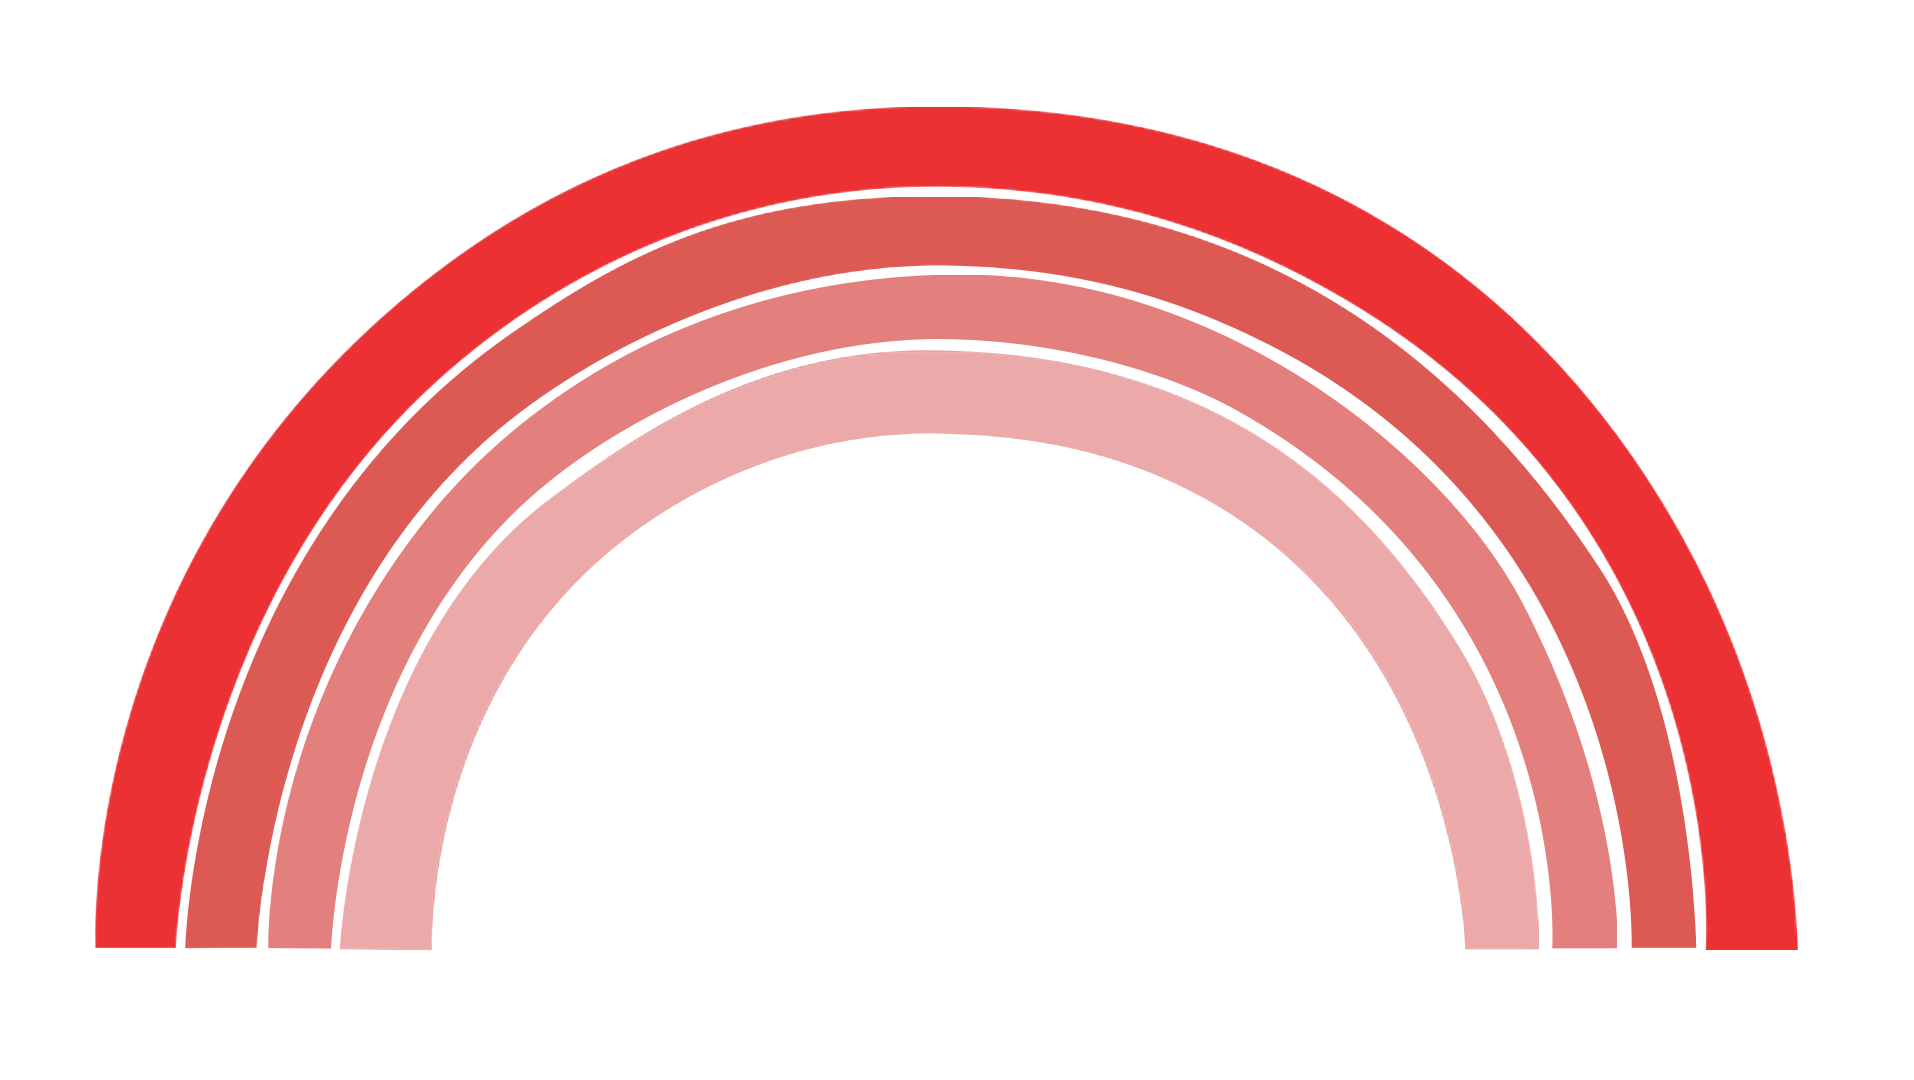
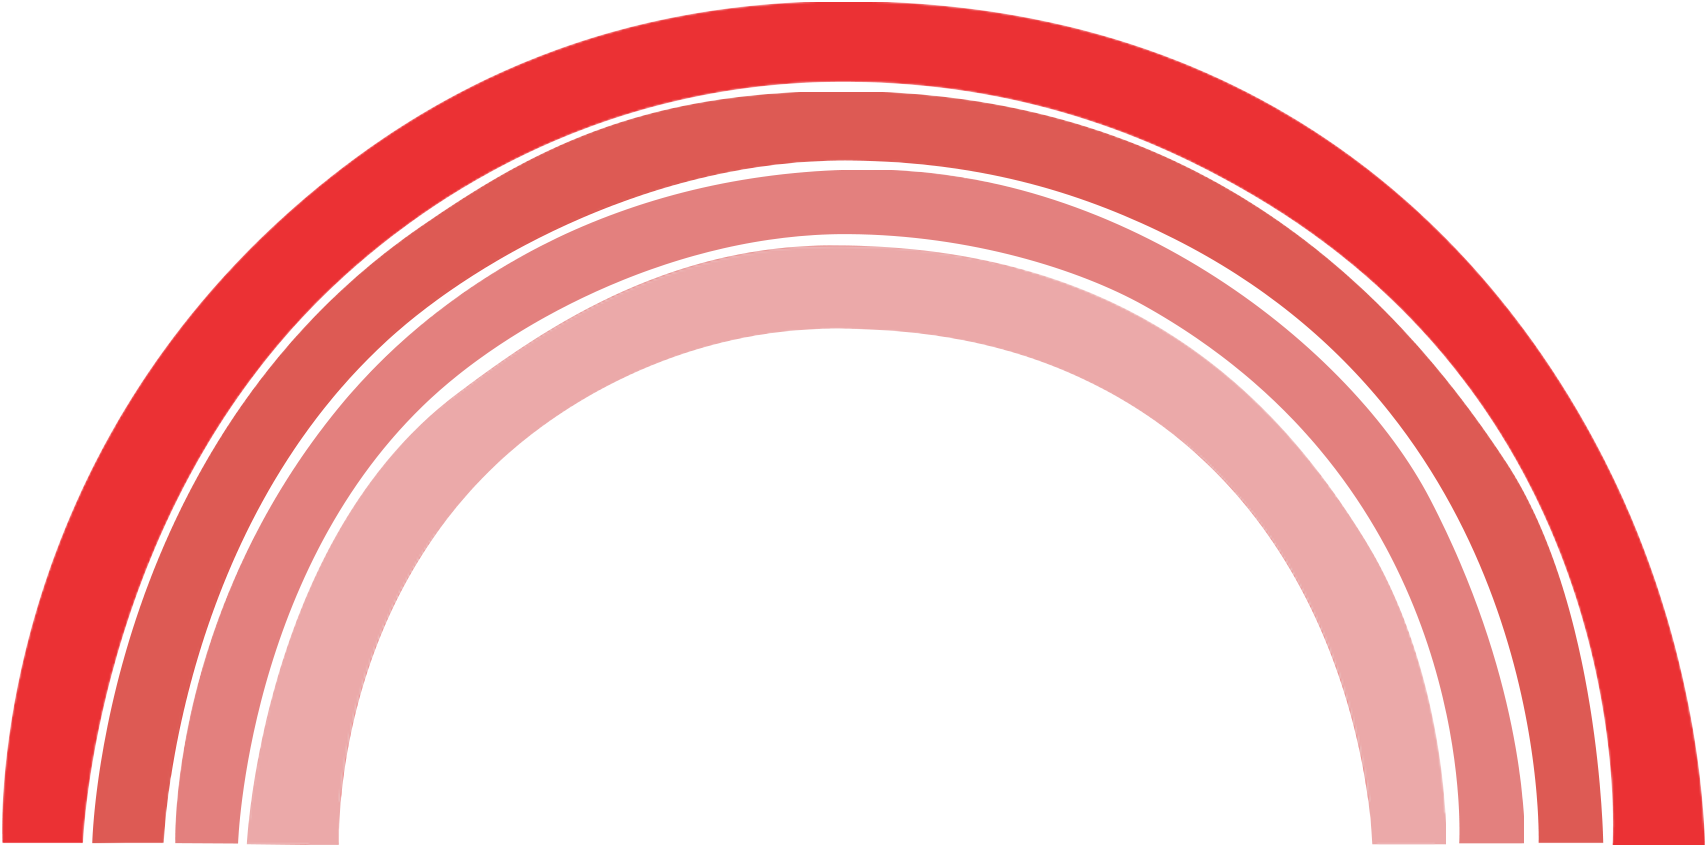
Adjust rainbow

diff --git a/assets/css/style.css b/assets/css/style.css
@@ -818,25 +818,25 @@ h1.home-title {
 }
 @media screen and (min-width: 1701px) {
     .sdsa-2017-frontispiece .essay {
-        background: url("../images/ui-glyphs/frontispiece-scenery-wave.png") repeat-x left 556px, url("../images/ui-glyphs/diamond-head-2.png") no-repeat 0% 207px, url("../images/ui-glyphs/rainbow.png") no-repeat -72% -98px, url("../images/ui-glyphs/frontispiece-scenery-elevation-cloud1.png") no-repeat 42% 235px, url("../images/ui-glyphs/frontispiece-scenery-elevation-cloud2.png") no-repeat 87% 54px, url("../images/ui-glyphs/frontispiece-scenery-sky.png") no-repeat left top;
+        background: url("../images/ui-glyphs/frontispiece-scenery-wave.png") repeat-x left 556px, url("../images/ui-glyphs/diamond-head-2.png") no-repeat 0% 207px, url("../images/ui-glyphs/rainbow.png") no-repeat 0% -98px, url("../images/ui-glyphs/frontispiece-scenery-elevation-cloud1.png") no-repeat 42% 235px, url("../images/ui-glyphs/frontispiece-scenery-elevation-cloud2.png") no-repeat 87% 54px, url("../images/ui-glyphs/frontispiece-scenery-sky.png") no-repeat left top;
         background-size: 204px 95px, 883px, 1280px, 126px 66px, 148px 64px, 100% 651px;
     }
 }
 @media screen and (min-width: 1351px) and (max-width: 1700px) {
     .sdsa-2017-frontispiece .essay {
-        background: url("../images/ui-glyphs/frontispiece-scenery-wave.png") repeat-x left 556px, url("../images/ui-glyphs/diamond-head-2.png") no-repeat 0% 207px, url("../images/ui-glyphs/rainbow.png") no-repeat -72% -98px, url("../images/ui-glyphs/frontispiece-scenery-elevation-cloud1.png") no-repeat 42% 235px, url("../images/ui-glyphs/frontispiece-scenery-elevation-cloud2.png") no-repeat 87% 54px, url("../images/ui-glyphs/frontispiece-scenery-sky.png") no-repeat left top;
+        background: url("../images/ui-glyphs/frontispiece-scenery-wave.png") repeat-x left 556px, url("../images/ui-glyphs/diamond-head-2.png") no-repeat 0% 207px, url("../images/ui-glyphs/rainbow.png") no-repeat 0% -98px, url("../images/ui-glyphs/frontispiece-scenery-elevation-cloud1.png") no-repeat 42% 235px, url("../images/ui-glyphs/frontispiece-scenery-elevation-cloud2.png") no-repeat 87% 54px, url("../images/ui-glyphs/frontispiece-scenery-sky.png") no-repeat left top;
         background-size: 204px 95px, 883px, 1280px, 126px 66px, 148px 64px, 100% 651px;
     }
 }
 @media screen and (min-width: 1100px) and (max-width: 1390px) {
     .sdsa-2017-frontispiece .essay {
-        background: url("../images/ui-glyphs/frontispiece-scenery-wave.png") repeat-x left 556px, url("../images/ui-glyphs/diamond-head-2.png") no-repeat 0% 207px, url("../images/ui-glyphs/rainbow.png") no-repeat -72% -98px, url("../images/ui-glyphs/frontispiece-scenery-elevation-cloud1.png") no-repeat 42% 235px, url("../images/ui-glyphs/frontispiece-scenery-elevation-cloud2.png") no-repeat 87% 54px, url("../images/ui-glyphs/frontispiece-scenery-sky.png") no-repeat left top;
+        background: url("../images/ui-glyphs/frontispiece-scenery-wave.png") repeat-x left 556px, url("../images/ui-glyphs/diamond-head-2.png") no-repeat 0% 207px, url("../images/ui-glyphs/rainbow.png") no-repeat 0% -98px, url("../images/ui-glyphs/frontispiece-scenery-elevation-cloud1.png") no-repeat 42% 235px, url("../images/ui-glyphs/frontispiece-scenery-elevation-cloud2.png") no-repeat 87% 54px, url("../images/ui-glyphs/frontispiece-scenery-sky.png") no-repeat left top;
         background-size: 204px 95px, 883px, 1280px, 126px 66px, 148px 64px, 100% 651px;
     }
 }
 @media screen and (min-width: 900px) and (max-width: 1099px) {
     .sdsa-2017-frontispiece .essay {
-        background: url("../images/ui-glyphs/frontispiece-scenery-wave.png") repeat-x left 556px, url("../images/ui-glyphs/diamond-head-2.png") no-repeat 0% 207px, url("../images/ui-glyphs/rainbow.png") no-repeat -72% -98px, url("../images/ui-glyphs/frontispiece-scenery-elevation-cloud1.png") no-repeat 42% 235px, url("../images/ui-glyphs/frontispiece-scenery-elevation-cloud2.png") no-repeat 87% 54px, url("../images/ui-glyphs/frontispiece-scenery-sky.png") no-repeat left top;
+        background: url("../images/ui-glyphs/frontispiece-scenery-wave.png") repeat-x left 556px, url("../images/ui-glyphs/diamond-head-2.png") no-repeat 0% 207px, url("../images/ui-glyphs/rainbow.png") no-repeat 0% -98px, url("../images/ui-glyphs/frontispiece-scenery-elevation-cloud1.png") no-repeat 42% 235px, url("../images/ui-glyphs/frontispiece-scenery-elevation-cloud2.png") no-repeat 87% 54px, url("../images/ui-glyphs/frontispiece-scenery-sky.png") no-repeat left top;
         background-size: 204px 95px, 883px, 1280px, 126px 66px, 148px 64px, 100% 651px;
     }
 }
@@ -1188,25 +1188,25 @@ input[type="submit"]:hover {
 
 @media screen and (min-width: 1701px) {
     #content #dsa-home-row-1 {
-        background: url("../images/ui-glyphs/frontispiece-scenery-wave.png") repeat-x left 556px, url("../images/ui-glyphs/diamond-head-2.png") no-repeat 0% 207px, url("../images/ui-glyphs/rainbow.png") no-repeat -72% -98px, url("../images/ui-glyphs/frontispiece-scenery-elevation-cloud1.png") no-repeat 42% 235px, url("../images/ui-glyphs/frontispiece-scenery-elevation-cloud2.png") no-repeat 87% 54px, url("../images/ui-glyphs/frontispiece-scenery-sky.png") no-repeat left top;
+        background: url("../images/ui-glyphs/frontispiece-scenery-wave.png") repeat-x left 556px, url("../images/ui-glyphs/diamond-head-2.png") no-repeat 0% 207px, url("../images/ui-glyphs/rainbow.png") no-repeat 0% -98px, url("../images/ui-glyphs/frontispiece-scenery-elevation-cloud1.png") no-repeat 42% 235px, url("../images/ui-glyphs/frontispiece-scenery-elevation-cloud2.png") no-repeat 87% 54px, url("../images/ui-glyphs/frontispiece-scenery-sky.png") no-repeat left top;
         background-size: 204px 95px, 883px, 1280px, 126px 66px, 148px 64px, 100% 651px;
     }
 }
 @media screen and (min-width: 1351px) and (max-width: 1700px) {
     #content #dsa-home-row-1 {
-        background: url("../images/ui-glyphs/frontispiece-scenery-wave.png") repeat-x left 556px, url("../images/ui-glyphs/diamond-head-2.png") no-repeat 0% 207px, url("../images/ui-glyphs/rainbow.png") no-repeat -72% -98px, url("../images/ui-glyphs/frontispiece-scenery-elevation-cloud1.png") no-repeat 42% 235px, url("../images/ui-glyphs/frontispiece-scenery-elevation-cloud2.png") no-repeat 87% 54px, url("../images/ui-glyphs/frontispiece-scenery-sky.png") no-repeat left top;
+        background: url("../images/ui-glyphs/frontispiece-scenery-wave.png") repeat-x left 556px, url("../images/ui-glyphs/diamond-head-2.png") no-repeat 0% 207px, url("../images/ui-glyphs/rainbow.png") no-repeat 0% -98px, url("../images/ui-glyphs/frontispiece-scenery-elevation-cloud1.png") no-repeat 42% 235px, url("../images/ui-glyphs/frontispiece-scenery-elevation-cloud2.png") no-repeat 87% 54px, url("../images/ui-glyphs/frontispiece-scenery-sky.png") no-repeat left top;
         background-size: 204px 95px, 883px, 1280px, 126px 66px, 148px 64px, 100% 651px;
     }
 }
 @media screen and (min-width: 1100px) and (max-width: 1390px) {
     #content #dsa-home-row-1 {
-        background: url("../images/ui-glyphs/frontispiece-scenery-wave.png") repeat-x left 556px, url("../images/ui-glyphs/diamond-head-2.png") no-repeat 0% 207px, url("../images/ui-glyphs/rainbow.png") no-repeat -72% -98px, url("../images/ui-glyphs/frontispiece-scenery-elevation-cloud1.png") no-repeat 42% 235px, url("../images/ui-glyphs/frontispiece-scenery-elevation-cloud2.png") no-repeat 87% 54px, url("../images/ui-glyphs/frontispiece-scenery-sky.png") no-repeat left top;
+        background: url("../images/ui-glyphs/frontispiece-scenery-wave.png") repeat-x left 556px, url("../images/ui-glyphs/diamond-head-2.png") no-repeat 0% 207px, url("../images/ui-glyphs/rainbow.png") no-repeat 0% -98px, url("../images/ui-glyphs/frontispiece-scenery-elevation-cloud1.png") no-repeat 42% 235px, url("../images/ui-glyphs/frontispiece-scenery-elevation-cloud2.png") no-repeat 87% 54px, url("../images/ui-glyphs/frontispiece-scenery-sky.png") no-repeat left top;
         background-size: 204px 95px, 883px, 1280px, 126px 66px, 148px 64px, 100% 651px;
     }
 }
 @media screen and (min-width: 900px) and (max-width: 1099px) {
     #content #dsa-home-row-1 {
-        background: url("../images/ui-glyphs/frontispiece-scenery-wave.png") repeat-x left 556px, url("../images/ui-glyphs/diamond-head-2.png") no-repeat 0% 207px, url("../images/ui-glyphs/rainbow.png") no-repeat -72% -98px, url("../images/ui-glyphs/frontispiece-scenery-elevation-cloud1.png") no-repeat 42% 235px, url("../images/ui-glyphs/frontispiece-scenery-elevation-cloud2.png") no-repeat 87% 54px, url("../images/ui-glyphs/frontispiece-scenery-sky.png") no-repeat left top;
+        background: url("../images/ui-glyphs/frontispiece-scenery-wave.png") repeat-x left 556px, url("../images/ui-glyphs/diamond-head-2.png") no-repeat 0% 207px, url("../images/ui-glyphs/rainbow.png") no-repeat 0% -98px, url("../images/ui-glyphs/frontispiece-scenery-elevation-cloud1.png") no-repeat 42% 235px, url("../images/ui-glyphs/frontispiece-scenery-elevation-cloud2.png") no-repeat 87% 54px, url("../images/ui-glyphs/frontispiece-scenery-sky.png") no-repeat left top;
         background-size: 204px 95px, 883px, 1280px, 126px 66px, 148px 64px, 100% 651px;
     }
 }
